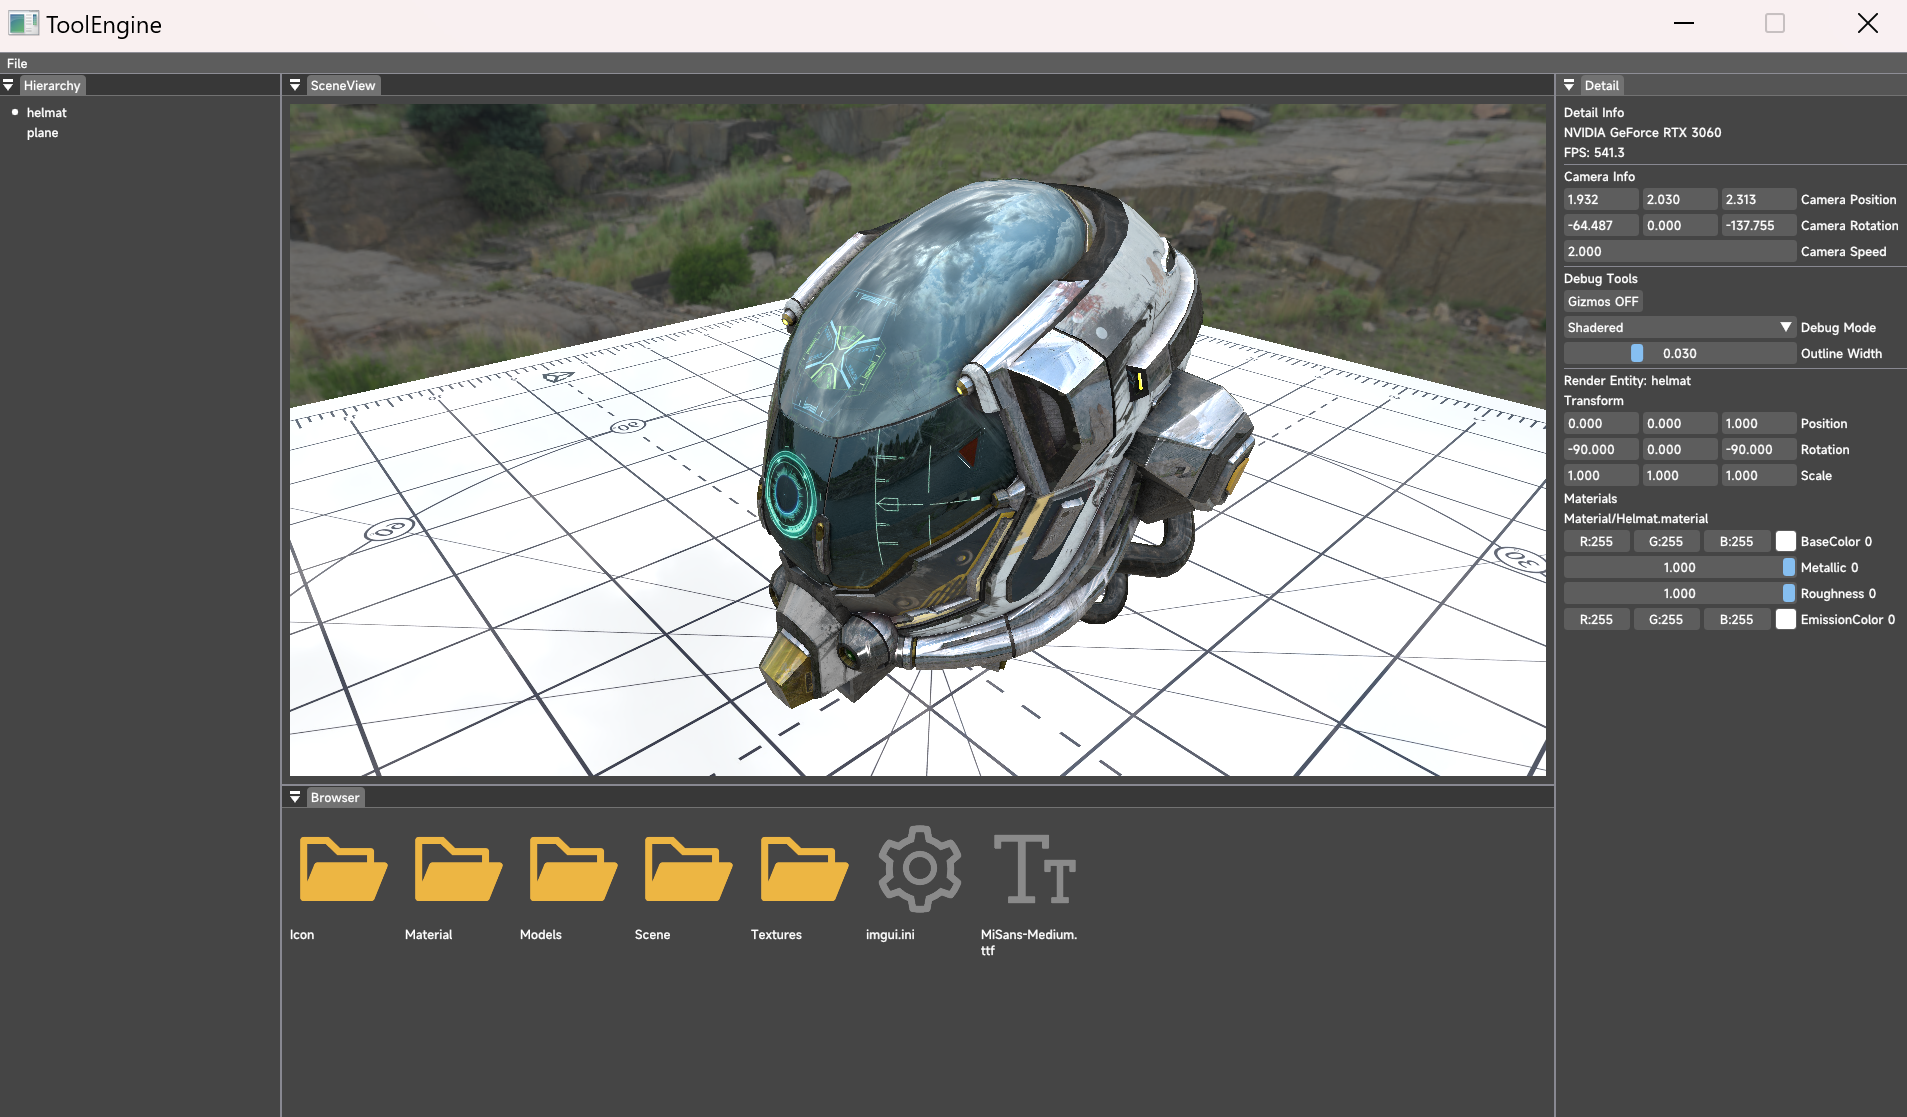
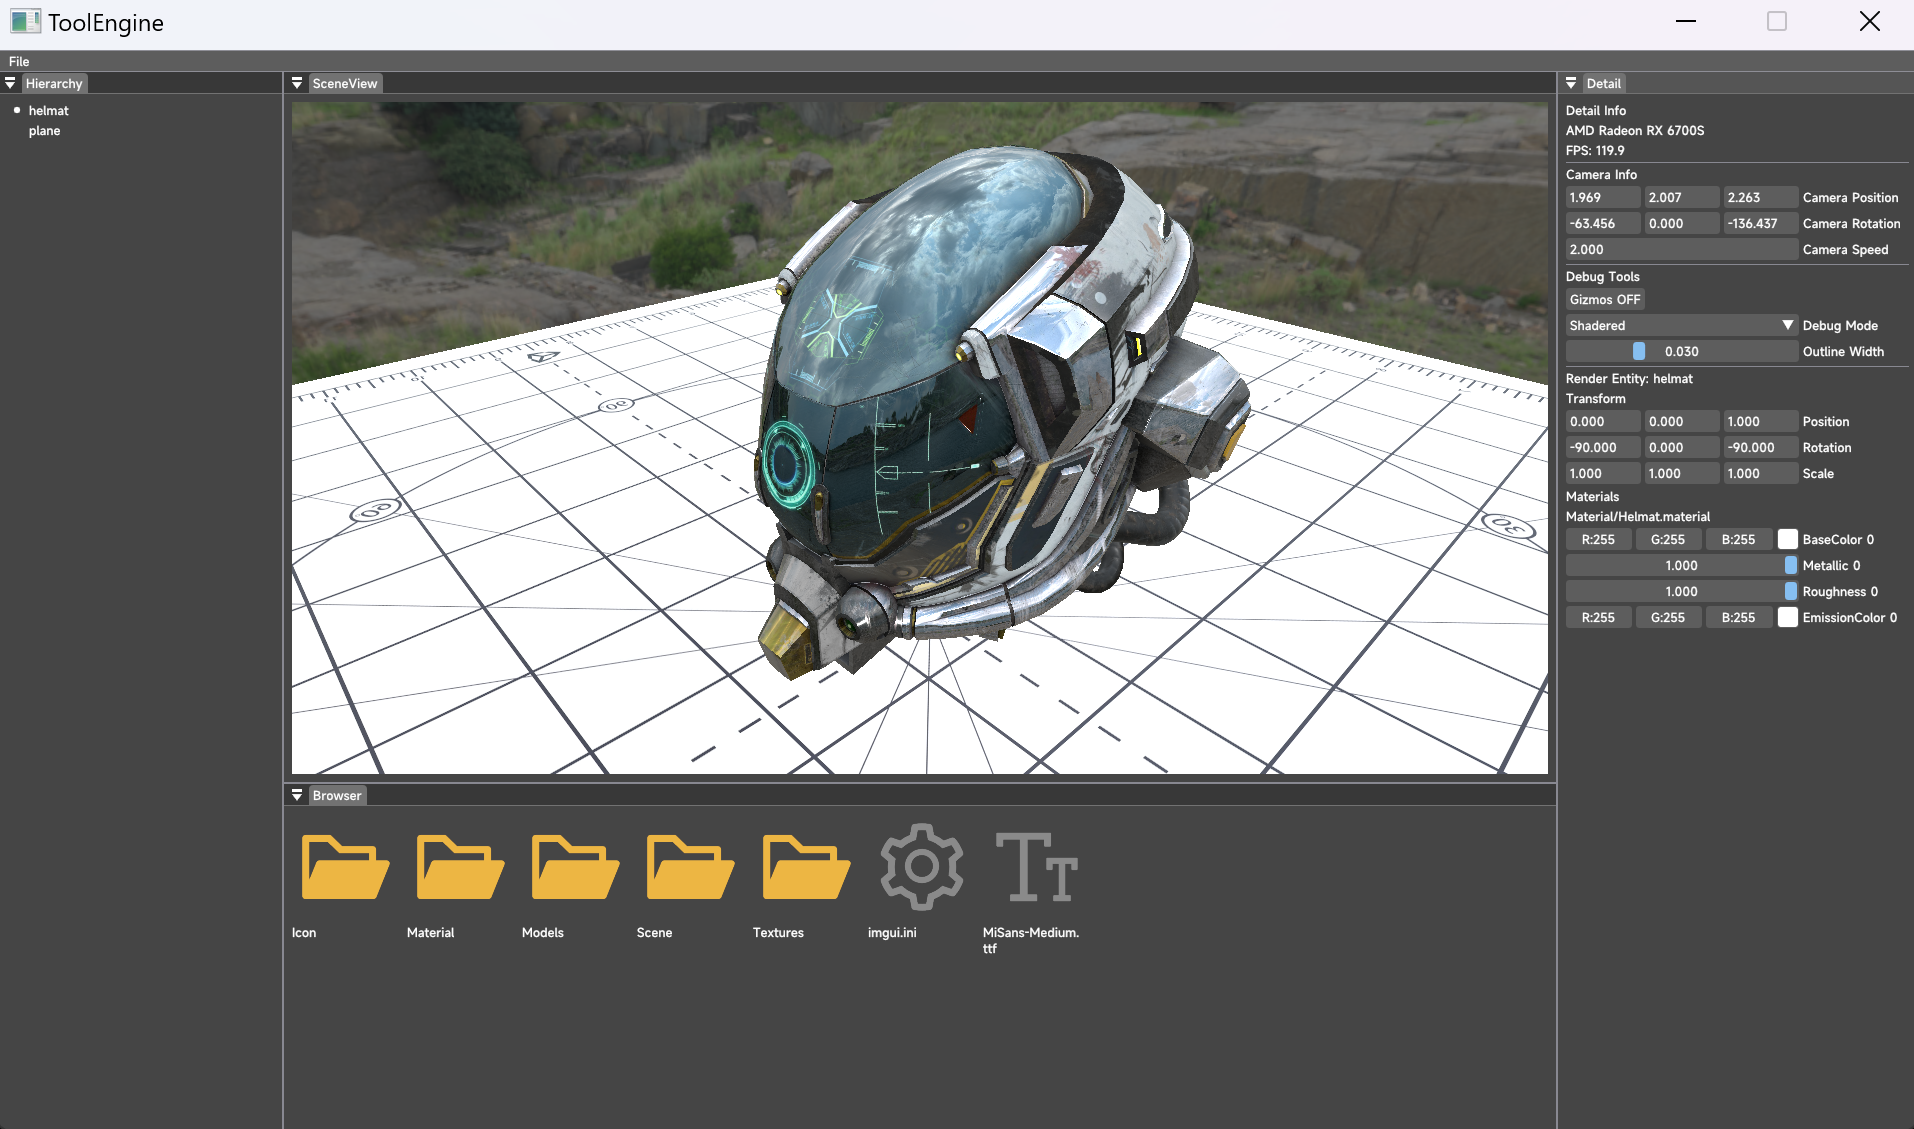
readme

Changed region(s): [[0.0, 0.0, 1.0, 0.8523], [0.9282, 0.2739, 0.99, 0.3348]]

diff --git a/README.md b/README.md
@@ -31,6 +31,8 @@ git submodule update
 
 ![2024_3_20](Doc/2024_3_20.png)
 
+![2024_3_20_2](Doc/2024_3_20_2.png)
+
 #### 2024.3.15
 
 - 选中物体（目前仅能在Hierarchy面板选中，后续会通过射线检测进行pickup）
